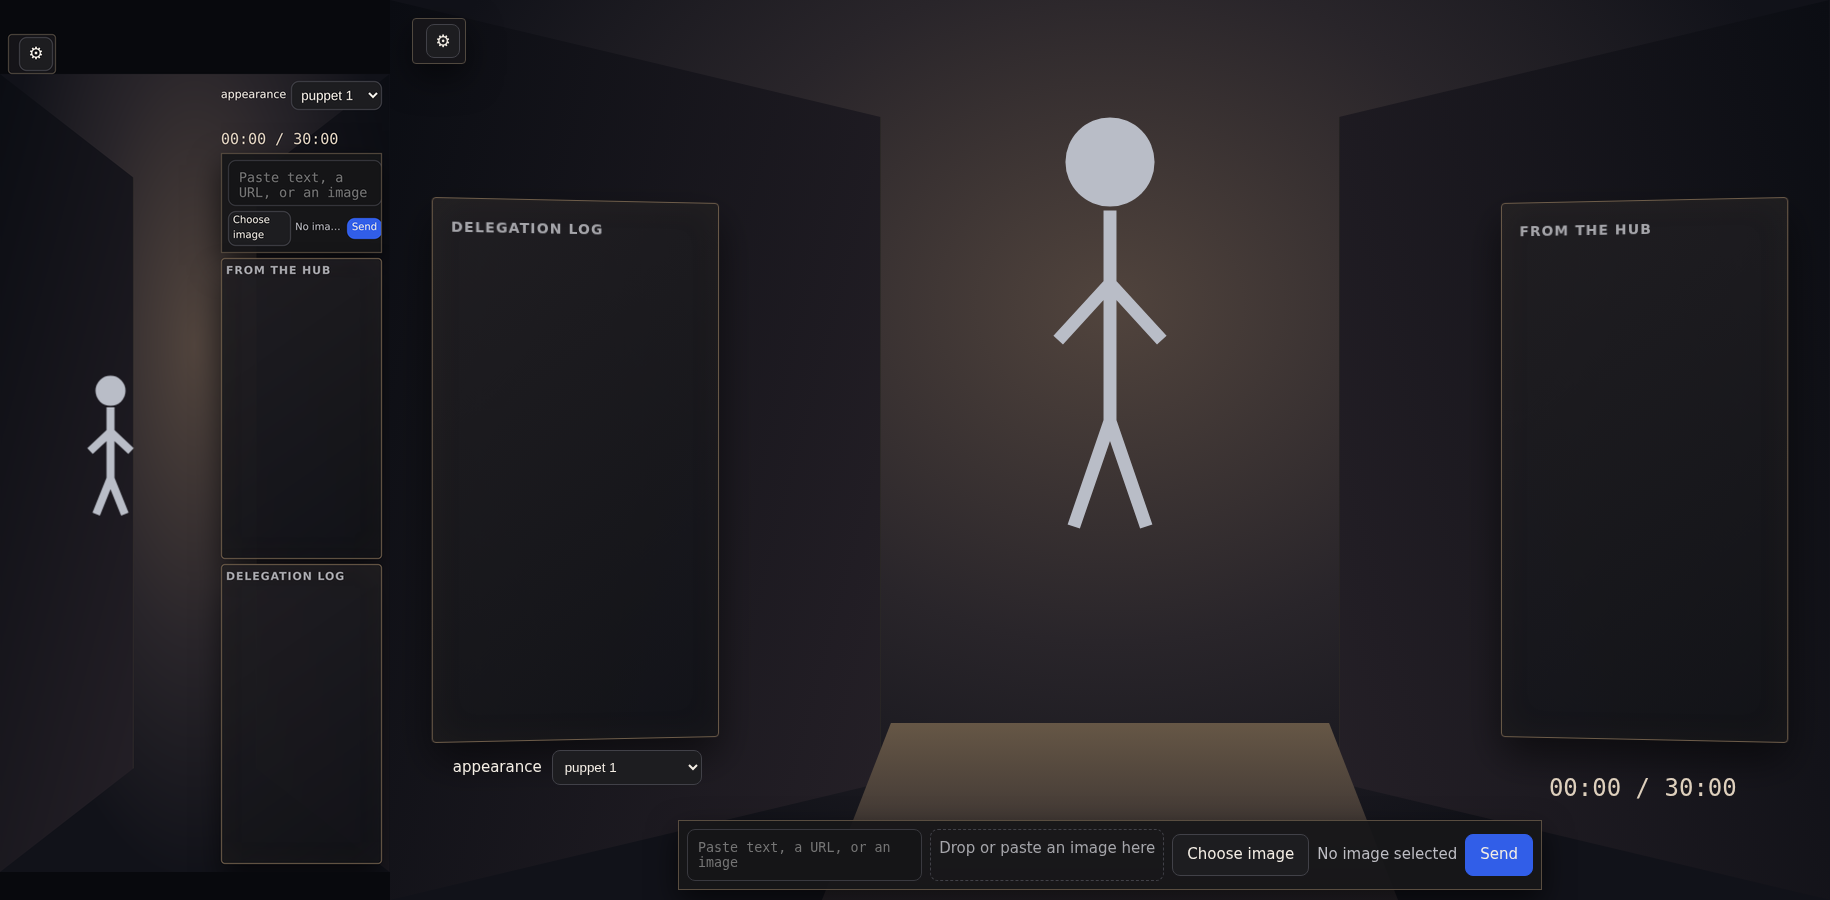
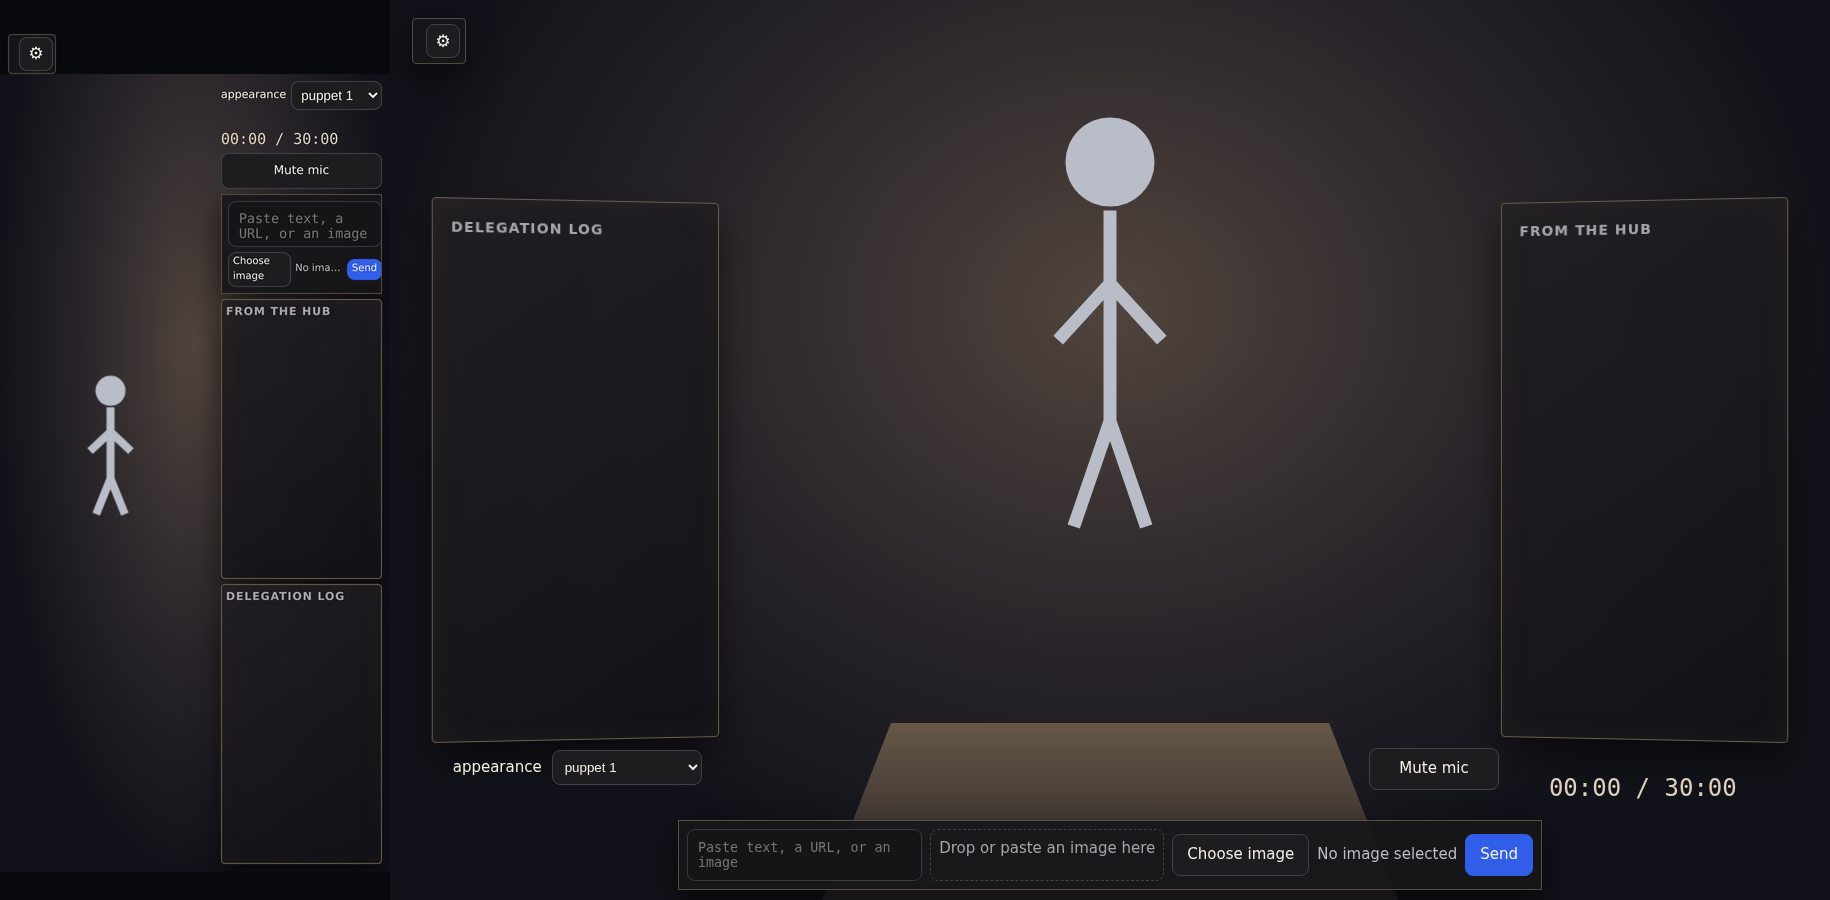
Add in-session microphone mute

diff --git a/docs/index.html b/docs/index.html
@@ -23,8 +23,6 @@
   button { background: #1d1d20; color: inherit; border: 1px solid #414148; border-radius: 8px; padding: 9px 14px; font: inherit; }
   button.primary { background: #315ee8; border-color: #315ee8; }
   main { --stage-height: 100vh; --canvas-height: calc(100% - var(--desk)); position: relative; height: var(--stage-height); min-height: 540px; overflow: hidden; isolation: isolate; background: radial-gradient(ellipse at 50% 34%, #51443d 0, #29252a 40%, #111219 72%); }
-  main::before, main::after { content: ''; position: absolute; z-index: -1; top: 0; bottom: 0; width: 34%; background: linear-gradient(105deg, #0b0d13, #252027); border-right: 1px solid #70604c55; clip-path: polygon(0 0, 100% 13%, 100% 87%, 0 100%); }
-  main::after { right: 0; transform: scaleX(-1); }
   .display, .ledger { background: linear-gradient(145deg, #201e22ee, #111217ee); border: 1px solid #6d5c49; border-radius: 4px; box-shadow: 0 18px 42px #0008, inset 0 0 35px #8a684111; }
   .control::before { content: ''; position: absolute; z-index: 1; left: 30%; top: calc(var(--feet) * var(--canvas-height)); bottom: 0; width: 40%; background: linear-gradient(#665746, #252127); clip-path: polygon(12% 0, 88% 0, 100% 100%, 0 100%); }
   #puppet { position: absolute; z-index: 2; left: var(--stage-column); top: 0; width: calc(100% - 2 * var(--stage-column)); height: var(--canvas-height); touch-action: manipulation; cursor: pointer; }
@@ -32,6 +30,8 @@
   #puppet-choice { min-width: 150px; background: #1d1d20; color: inherit; border: 1px solid #414148; border-radius: 8px; padding: 8px; }
   #puppet-credit { position: absolute; z-index: 4; left: 3%; top: calc(100% - 106px); width: 20%; min-height: 21px; color: #cfc4b6; text-align: center; font-size: 13px; white-space: nowrap; overflow: hidden; text-overflow: ellipsis; }
   #elapsed { position: absolute; z-index: 4; right: 3%; top: calc(100% - 124px); width: 20%; text-align: center; font: 24px/1 ui-monospace, monospace; color: #ded0bd; min-height: 28px; }
+  #mic-mute { position: absolute; z-index: 4; right: 23%; bottom: 110px; width: 9%; min-height: 40px; }
+  #mic-mute[aria-pressed="true"] { background: #8c2f39; border-color: #d7626e; }
   .share { position: absolute; z-index: 3; left: 20%; right: 20%; bottom: 10px; display: grid; grid-template-columns: 1fr auto auto; gap: 8px; padding: 8px; background: #171619ee; border: 1px solid #594d40; box-shadow: 0 12px 30px #0009; }
   .share textarea { min-height: 52px; max-height: 72px; min-width: 0; resize: none; }
   .share-actions { display: flex; gap: 8px; align-items: center; flex-wrap: nowrap; }
@@ -63,24 +63,25 @@
     body { height: 100svh; min-height: 0; display: flex; flex-direction: column; overflow: hidden; }
     header { position: relative; left: auto; top: auto; width: auto; align-self: flex-start; margin: 6px 8px 0; padding: 2px; font-size: 12px; box-shadow: none; }
     .token-panel { left: 8px; top: 44px; width: calc(100% - 16px); }
-    main { --stage-height: auto; height: auto; min-height: 0; flex: 1; display: grid; grid-template-columns: minmax(0, 56fr) minmax(0, 44fr); grid-template-rows: 26px 12px 18px clamp(36px, 12svh, 100px) minmax(0, 1fr) minmax(0, 1fr); gap: 5px 8px; padding: 8px; }
+    main { --stage-height: auto; height: auto; min-height: 0; flex: 1; display: grid; grid-template-columns: minmax(0, 56fr) minmax(0, 44fr); grid-template-rows: 26px 12px 18px 36px clamp(36px, 12svh, 100px) minmax(0, 1fr) minmax(0, 1fr); gap: 5px 8px; padding: 8px; }
     .control { display: contents; }
     #puppet { position: static; grid-column: 1; grid-row: 1 / -1; place-self: center; width: min(100%, calc((100svh - 58px) * .75)); height: auto; aspect-ratio: 3 / 4; }
     .control::before { display: none; }
-    .puppet-picker, #puppet-credit, #elapsed, .share, .display, .ledger { position: static; width: auto; height: auto; min-width: 0; transform: none; }
+    .puppet-picker, #puppet-credit, #elapsed, #mic-mute, .share, .display, .ledger { position: static; width: auto; height: auto; min-width: 0; transform: none; }
     .puppet-picker { grid-column: 2; grid-row: 1; justify-content: flex-start; gap: 5px; font-size: 11px; }
     #puppet-choice { min-width: 0; width: 100%; padding: 5px; }
     #puppet-credit { grid-column: 2; grid-row: 2; min-height: 0; height: 100%; overflow: hidden; text-align: left; font-size: 10px; line-height: 12px; }
     #elapsed { grid-column: 2; grid-row: 3; min-height: 0; overflow: hidden; text-align: left; font-size: 15px; line-height: 18px; }
-    .share { grid-column: 2; grid-row: 4; grid-template-columns: minmax(0, 1fr) auto; padding: 6px; gap: 5px; overflow: auto; }
+    #mic-mute { grid-column: 2; grid-row: 4; min-height: 36px; padding: 4px 8px; font-size: 12px; }
+    .share { grid-column: 2; grid-row: 5; grid-template-columns: minmax(0, 1fr) auto; padding: 6px; gap: 5px; overflow: auto; }
     .share textarea { min-height: 0; height: 100%; }
     #share-target { display: none; }
     #share-image { width: 64px; font-size: 10px; }
     .share-actions { gap: 4px; flex-wrap: nowrap; }
     .share-actions label, .share-actions button { padding: 4px 6px; font-size: 11px; }
     .display, .ledger { grid-column: 2; min-height: 0; height: 100%; padding: 0; overflow: auto; }
-    .display { grid-row: 5; }
-    .ledger { grid-row: 6; }
+    .display { grid-row: 6; }
+    .ledger { grid-row: 7; }
     .display h2, .ledger h2 { margin: 0; padding: 4px; font-size: 11px; }
     #display-items, #log { max-height: none; }
   }
@@ -108,6 +109,7 @@
     <label class="puppet-picker">appearance <select id="puppet-choice" aria-label="puppet appearance"></select></label>
     <div id="puppet-credit"></div>
     <div id="elapsed" aria-live="polite">00:00 / 30:00</div>
+    <button id="mic-mute" type="button" aria-pressed="false" disabled>Mute mic</button>
     <section class="share" aria-label="send text or image">
       <textarea id="share-text" maxlength="8192" placeholder="Paste text, a URL, or an image"></textarea>
       <div id="share-target">Drop or paste an image here</div>
@@ -166,6 +168,7 @@ let puppetRuntime;
 let puppetTools;
 let selectedImage;
 let sharing = false;
+let microphoneMuted = false;
 const shareWaiters = new Map();
 function applyTranscriptAction(action, timing) {
   if (action.kind === 'none' && !timing.shadowed) return;
@@ -234,6 +237,14 @@ function syncPuppetUi() {
   $('puppet').setAttribute('aria-disabled', String(disabled));
   $('puppet').setAttribute('aria-pressed', String(active));
   $('puppet').setAttribute('aria-label', active || starting ? 'stop conversation' : 'start conversation');
+}
+function setMicrophoneMuted(muted) {
+  const stream = conversation?.stream ?? starting?.stream;
+  microphoneMuted = Boolean(muted && stream);
+  for (const track of stream?.getAudioTracks?.() ?? stream?.getTracks?.() ?? []) track.enabled = !microphoneMuted;
+  $('mic-mute').disabled = !stream;
+  $('mic-mute').textContent = microphoneMuted ? 'Unmute mic' : 'Mute mic';
+  $('mic-mute').setAttribute('aria-pressed', String(microphoneMuted));
 }
 try {
   puppetRuntime = new PuppetRuntime($('puppet'), $('display'));
@@ -778,6 +789,7 @@ function paintOff() {
   puppetRuntime?.waiting(false);
   puppetRuntime?.pose('sit');
   $('elapsed').textContent = '00:00 / 30:00';
+  setMicrophoneMuted(false);
   syncPuppetUi();
 }
 function cancelOffer(attempt) {
@@ -825,6 +837,7 @@ async function startConversation() {
       for (const track of attempt.stream.getTracks()) track.stop();
       return;
     }
+    setMicrophoneMuted(false);
     attempt.pc = new RTCPeerConnection();
     attempt.channel = attempt.pc.createDataChannel('oai-events');
     const started = waitData(attempt.channel, (event) => event.type === 'session.started', 30000, attempt);
@@ -905,6 +918,7 @@ async function finishStop(reason, remoteClosed) {
   }
   current.transcript.flush();
   conversation = null;
+  setMicrophoneMuted(false);
   syncPuppetUi();
   current.channel.close();
   current.pc.close();
@@ -1027,6 +1041,7 @@ $('puppet-choice').addEventListener('change', () => showPuppet($('puppet-choice'
 }));
 $('connect').addEventListener('click', () => start($('token').value).catch((error) => setStatus(error.message, 'err')));
 $('token-toggle').addEventListener('click', () => setTokenPanel($('token-toggle').getAttribute('aria-expanded') !== 'true'));
+$('mic-mute').addEventListener('click', () => setMicrophoneMuted(!microphoneMuted));
 $('reenter').addEventListener('click', async () => { await stopConversation(); setStatus('finishing private uploads…'); await persistenceUploads.idle(); await telemetry.idle(); savedState(false); $('token').focus(); });
 $('forget').addEventListener('click', async () => { await stopConversation(); localStorage.removeItem(KEY); setStatus('finishing private uploads…'); await persistenceUploads.idle(); await telemetry.idle(); await sendFrame('bye').catch(() => {}); generation++; connected = false; resetPuppetConnection(new Error('connection replaced'), true); await puppetChannel.clearCache().catch(() => {}); savedState(false); setStatus('token forgotten'); });
 document.addEventListener('visibilitychange', () => { if (document.hidden) puppetRuntime?.pause(); else if (!$('conversation').classList.contains('hidden')) puppetRuntime?.start(); });

diff --git a/test/page.test.js b/test/page.test.js
@@ -178,7 +178,9 @@ Object.defineProperty(globalThis, 'caches', { value: { open: async () => ({
   match: async (request) => puppetCache.get(request.url)?.clone(),
   put: async (request, response) => puppetCache.set(request.url, response.clone()),
 }) } });
-const stream = { getTracks: () => [{ stop() {} }] };
+const microphoneTrack = { enabled: true, stop() {} };
+const stream = { getTracks: () => [microphoneTrack], getAudioTracks: () => [microphoneTrack] };
+globalThis.testMicrophoneTrack = microphoneTrack;
 Object.defineProperty(navigator, 'mediaDevices', { value: { getUserMedia: async () => stream } });
 class FakeMediaRecorder extends EventTarget {
   static isTypeSupported(type) { return type === 'audio/webm;codecs=opus'; }
@@ -517,6 +519,34 @@ window.addEventListener('test-ready', () => {
   ], stderr);
 });
 
+test('the live microphone can mute and resume without ending its session', async () => {
+  const { stdout, stderr } = await runPage(`
+window.addEventListener('test-ready', () => {
+  const button = document.querySelector('#mic-mute');
+  const puppet = document.querySelector('#puppet');
+  const states = [];
+  const capture = () => states.push({ enabled: testMicrophoneTrack.enabled, muted: button.getAttribute('aria-pressed'), label: button.textContent, live: puppet.getAttribute('aria-pressed'), channel: testChannel.readyState });
+  capture();
+  button.click();
+  capture();
+  button.click();
+  capture();
+  document.body.dataset.microphoneMuteTest = JSON.stringify(states);
+});
+`);
+  const encoded = /data-microphone-mute-test="([^"]*)"/.exec(stdout)?.[1]?.replaceAll('&quot;', '"');
+  assert.deepEqual(JSON.parse(encoded ?? 'null'), [
+    { enabled: true, muted: 'false', label: 'Mute mic', live: 'true', channel: 'open' },
+    { enabled: false, muted: 'true', label: 'Unmute mic', live: 'true', channel: 'open' },
+    { enabled: true, muted: 'false', label: 'Mute mic', live: 'true', channel: 'open' },
+  ], stderr);
+});
+
+test('the stage has no decorative wall occluders', async () => {
+  const index = await readFile(new URL('../docs/index.html', import.meta.url), 'utf8');
+  assert.doesNotMatch(index, /main::(?:before|after)/);
+});
+
 for (const viewport of layoutViewports) test(`stage UI stays outside the puppet projection at ${viewport.name} size`, async () => {
   const index = await readFile(new URL('../docs/index.html', import.meta.url), 'utf8');
   const style = /<style>[\s\S]*?<\/style>/.exec(index)[0];
@@ -536,10 +566,10 @@ for (const viewport of layoutViewports) test(`stage UI stays outside the puppet 
   const rect = (element) => { const value = element.getBoundingClientRect(); return { left: value.left, right: value.right, top: value.top, bottom: value.bottom }; };
   const puppet = rect(document.querySelector('#puppet'));
   const figure = { ...puppet, bottom: puppet.top + (1 - feet.y) / 2 * (puppet.bottom - puppet.top) };
-  const selectors = ['header', '#saved', '.puppet-picker', '#puppet-credit', '#elapsed', '.share', '.display', '.ledger'];
+  const selectors = ['header', '#saved', '.puppet-picker', '#puppet-credit', '#elapsed', '#mic-mute', '.share', '.display', '.ledger'];
   const overlaps = (a, b) => a.left < b.right && a.right > b.left && a.top < b.bottom && a.bottom > b.top;
   const intrusions = () => selectors.map((selector) => ({ selector, rect: rect(document.querySelector(selector)) })).filter((item) => overlaps(item.rect, figure));
-  const regions = ['header', '#saved', '#puppet', '.puppet-picker', '#puppet-credit', '#elapsed', '.share', '.display', '.ledger'].map((selector) => ({ selector, rect: rect(document.querySelector(selector)) })).filter(({ rect }) => rect.right > rect.left && rect.bottom > rect.top);
+  const regions = ['header', '#saved', '#puppet', '.puppet-picker', '#puppet-credit', '#elapsed', '#mic-mute', '.share', '.display', '.ledger'].map((selector) => ({ selector, rect: rect(document.querySelector(selector)) })).filter(({ rect }) => rect.right > rect.left && rect.bottom > rect.top);
   const collisions = regions.flatMap((left, index) => regions.slice(index + 1).filter((right) => overlaps(left.rect, right.rect)).map((right) => ({ left, right })));
   const result = intrusions();
   const display = rect(document.querySelector('#display'));
